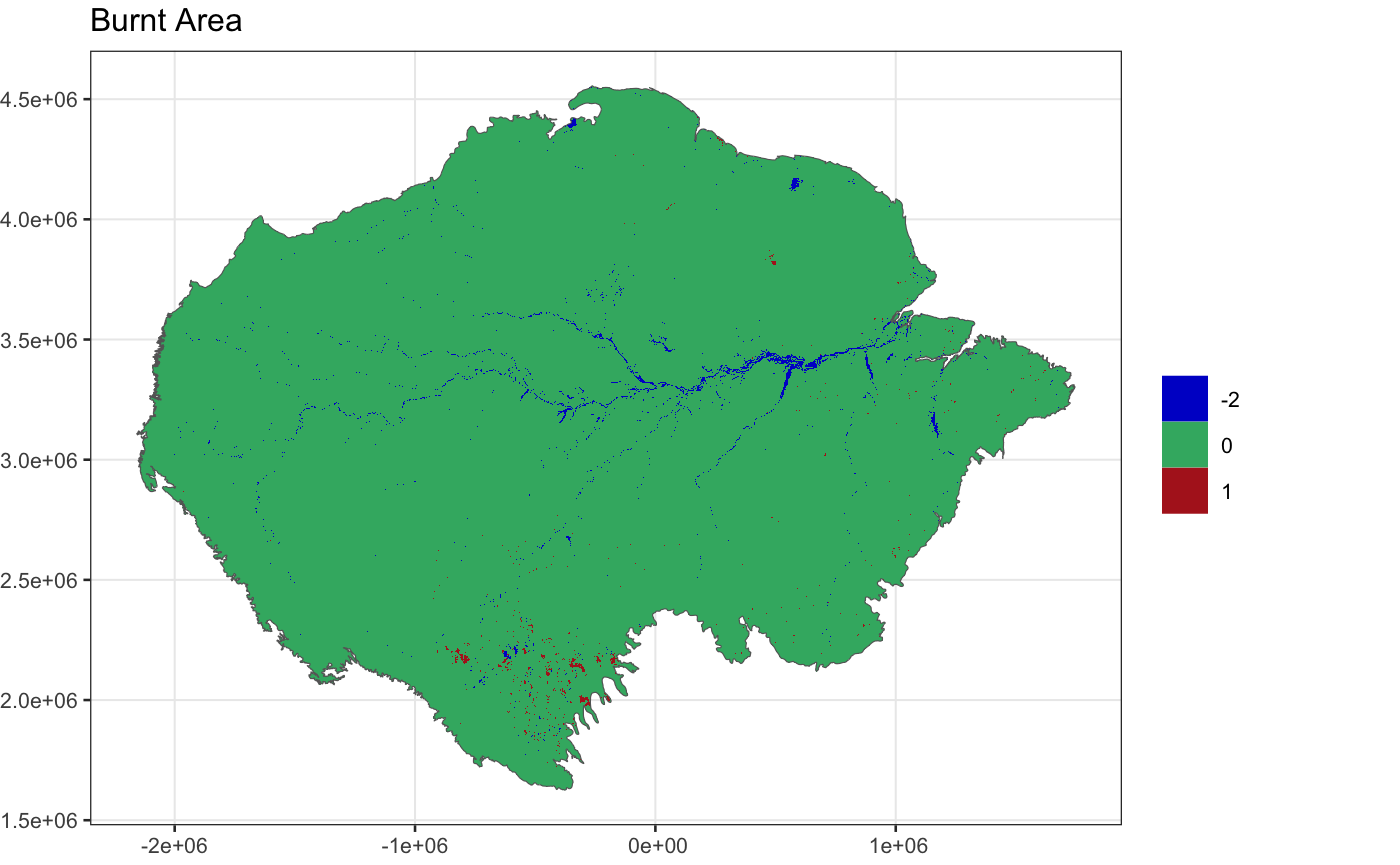
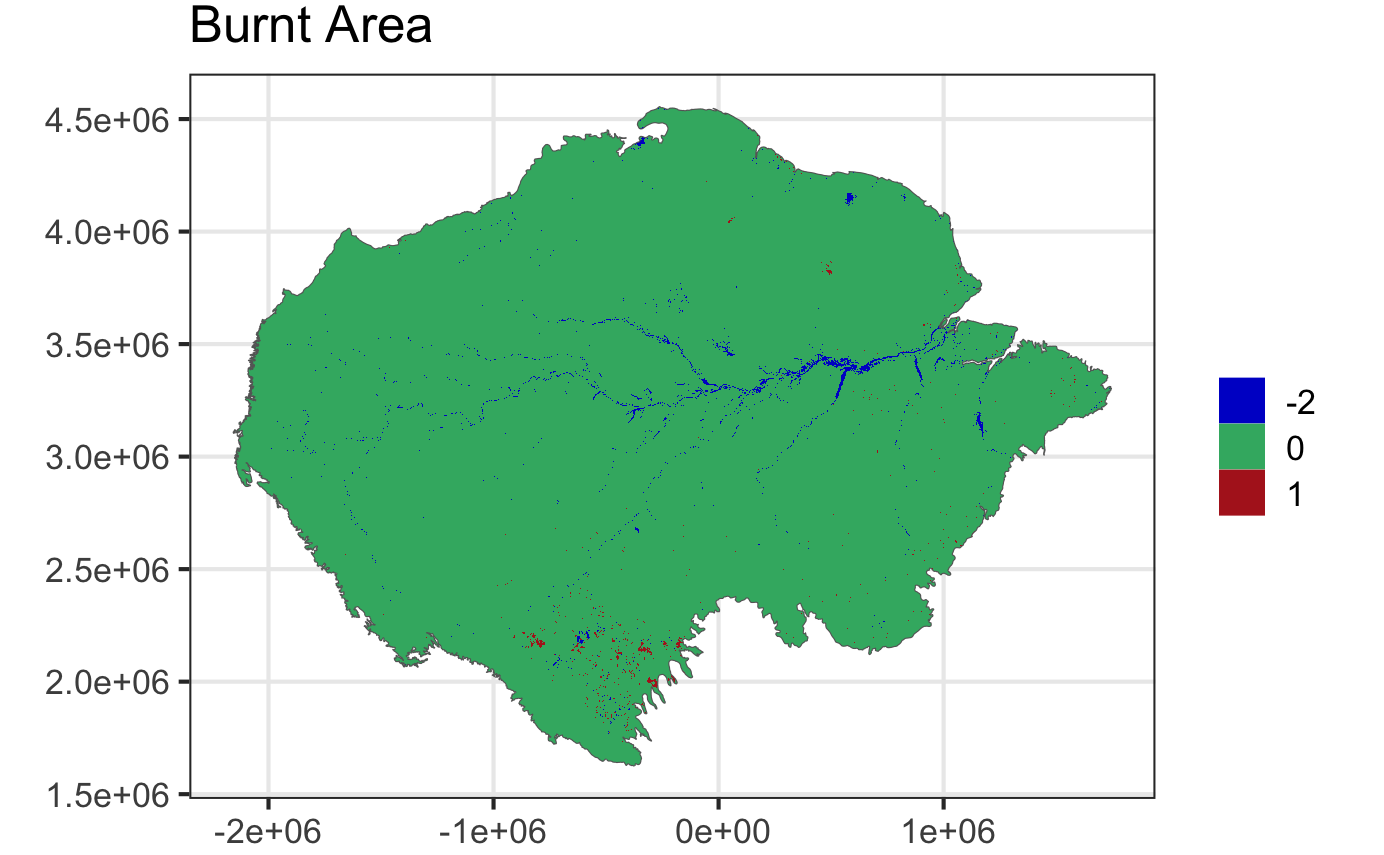
upload

Changed region(s): [[0.0, 0.0, 0.9632, 1.0], [0.4039, 0.3649, 0.435, 0.3953]]

diff --git a/1_data_analysis_&_missing_data/README.md b/1_data_analysis_&_missing_data/README.md
@@ -137,7 +137,7 @@ p.ba
 ```
 
 <p align="center">
-  <img src="img/1.2.ba_2.png"  width="60%" />
+  <img src="img/1.2.ba.png"  width="60%" />
 </p>
 
 ```r
@@ -221,38 +221,181 @@ burntArea.freq.na
 
 ## Land Cover
 
+### Data Analysis
+
 _Land Cover_ is a categorical variable with 11 classes, providing information on different land cover types such as water, urban, forest, grassland, and more.
 
+_**Import data**_
+
+```r
+# list of files
+amaz.landCover.list <- list.files(paste0(path.data,"/2. Land Cover/03. Working Data"),
+                                  full.names=TRUE,
+                                  pattern = ".tif$")
+# Import data with "Terra"
+landCover.rast <- rast(amaz.landCover.list)
+landCover.rast
+```
+```
+    class       : SpatRaster 
+    dimensions  : 5860, 7806, 240  (nrow, ncol, nlyr)
+    resolution  : 500, 500  (x, y)
+    extent      : -2156811, 1746189, 1625314, 4555314  (xmin, xmax, ymin, ymax)
+    coord. ref. : South_America_Albers_Equal_Area_Conic 
+    sources     : landcover_working_2001_1.tif  
+                landcover_working_2001_10.tif  
+                landcover_working_2001_11.tif  
+                ... and 237 more source(s)
+    names       : lulc_~_proj, lulc_~_proj, lulc_~_proj, lulc_~_proj, lulc_~_proj, lulc_~_proj, ... 
+    min values  :           0,           0,           0,           0,           0,           0, ... 
+    max values  :          10,          10,          10,          10,          10,          10, ...
+```
+
+_**Rename and order layers**_
+
+```r
+# Rename layers
+landCover.rast <- renameLayers(landCover.rast, 'landcover_working_', '')
+# Order layers
+landCover.rast <- landCover.rast[[ordered.names]]
+landCover.rast
+```
+```
+    class       : SpatRaster 
+    dimensions  : 5860, 7806, 240  (nrow, ncol, nlyr)
+    resolution  : 500, 500  (x, y)
+    extent      : -2156811, 1746189, 1625314, 4555314  (xmin, xmax, ymin, ymax)
+    coord. ref. : South_America_Albers_Equal_Area_Conic 
+    sources     : landcover_working_2001_1.tif  
+                landcover_working_2001_2.tif  
+                landcover_working_2001_3.tif  
+                ... and 237 more source(s)
+    names       : 2001_01, 2001_02, 2001_03, 2001_04, 2001_05, 2001_06, ... 
+    min values  :       0,       0,       0,       0,       0,       0, ... 
+    max values  :      10,      10,      10,      10,      10,      10, ... 
+```
+
+_**Verification of the values**_
+
+```r
+# Verification of the values
+landCover.minmax <- minmax(landCover.rast) %>% t() %>% as.data.frame()
+landCover.minmax[
+  which((!landCover.minmax[,1] %in% c(0:10)) & (!landCover.minmax[,2] %in% c(0:10))), ]
+```
+<p align="center">
+  <img src="img/2.1.lc.png"  width="60%" />
+</p>
+
+_**Plot of the month of October 2020**_
+
+### Missing Data
 
 ## Precipitation
+
+### Data Analysis
 
 _Precipitation_ is measured in millimeters per hour, with a range between 0 and 3300.
 
 ## Soil Moisture
 
+### Data Analysis
+
 _Soil Moisture_ is measured in millimeters, with missing values marked as -9.99e+08, and a range between 0 and 4291.
+
+_**Import data**_
+
+_**Rename and order layers**_
+
+_**Verification of the values**_
+
+_**Plot of the month of October 2020**_
+
+### Missing Data
 
 ## Elevation
 
+### Data Analysis
+
 _Elevation_ is measured in meters, with a range between -85 and 6471.
+
+_**Import data**_
+
+_**Rename and order layers**_
+
+_**Verification of the values**_
+
+_**Plot of the month of October 2020**_
+
+### Missing Data
 
 ## Land Surface Temperature
 
+### Data Analysis
+
 _Land Surface Temperature_ is represented in Kelvin, with values adjusted by a scale factor of 0.02. Different months have varying missing data.
+
+_**Import data**_
+
+_**Rename and order layers**_
+
+_**Verification of the values**_
+
+_**Plot of the month of October 2020**_
+
+### Missing Data
 
 ## Specific Humidity
 
+### Data Analysis
+
 _Specific Humidity_ is represented as kg/kg, indicating the ratio of kilograms of water (moisture) per kilogram of air. It ranges from 9.59e-04 to 2.15e-02.
+
+_**Import data**_
+
+_**Rename and order layers**_
+
+_**Verification of the values**_
+
+_**Plot of the month of October 2020**_
+
+### Missing Data
 
 ## Evapotranspiration
 
+### Data Analysis
+
 _Evapotranspiration_ is measured in kg/m2s, with values ranging between -2.02e-07 and 9.69e-05.
+
+_**Import data**_
+
+_**Rename and order layers**_
+
+_**Verification of the values**_
+
+_**Plot of the month of October 2020**_
+
+### Missing Data
 
 ## Wind Speed
 
+### Data Analysis
+
 _Wind Speed_ is measured in m/s, with values between 0.86 and 9.85.
 
+_**Import data**_
+
+_**Rename and order layers**_
+
+_**Verification of the values**_
+
+_**Plot of the month of October 2020**_
+
+### Missing Data
+
 ## Air Temperature
+
+### Data Analysis
 
 _Air Temperature_ is represented in Kelvin, with values ranging from 268 to 307.
 
